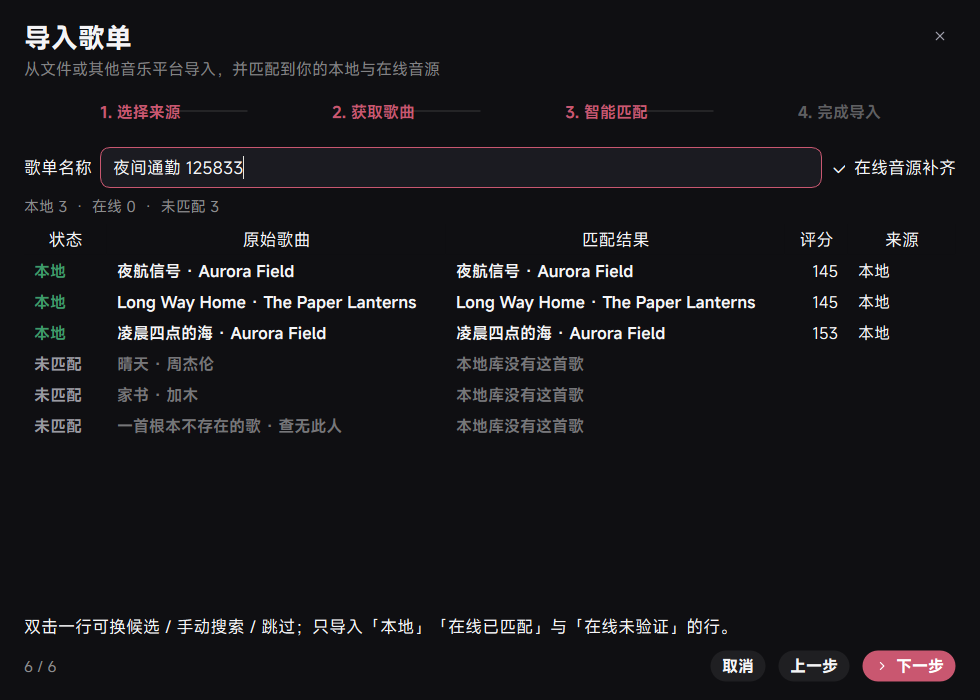
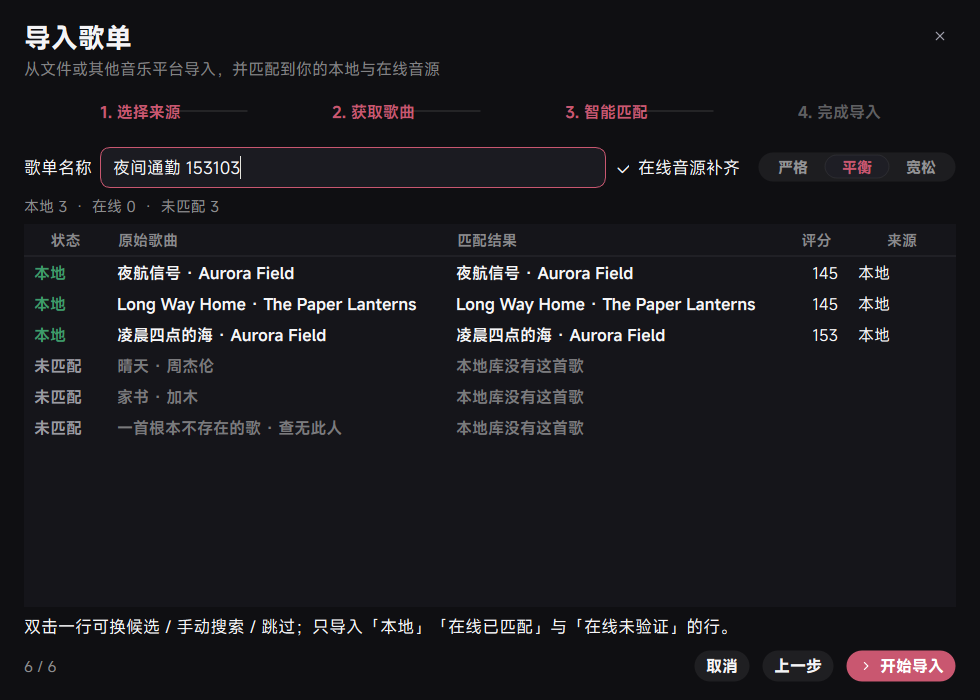
feat(1.2.6): 全黑主题与四选一选择器；导入匹配表去外框并修正自绘表头配色

diff --git a/hushplayer/ui/widgets/settings_widgets.py b/hushplayer/ui/widgets/settings_widgets.py
@@ -694,7 +694,12 @@ class ThemePicker(QWidget):
 
     changed = Signal(str)
 
-    OPTIONS = [("system", "跟随系统", "随 Windows 设置"), ("light", "浅色", "始终浅色"), ("dark", "深色", "始终深色")]
+    OPTIONS = [
+        ("system", "跟随系统", "随 Windows 设置"),
+        ("light", "浅色", "始终浅色"),
+        ("dark", "深色", "始终深色"),
+        ("pure", "全黑", "纯黑背景"),
+    ]
     TILE_W = 132
     GAP = 12
 
@@ -710,25 +715,31 @@ class ThemePicker(QWidget):
         # type overlaps the preview (it used to be a fixed 108 px block).
         label_metrics = QFontMetrics(theme().font(9.4, 600))
         hint_metrics = QFontMetrics(theme().font(7.8, 400))
-        self._label_h = label_metrics.height()
-        self._hint_h = hint_metrics.height()
+        self._label_h = label_metrics.height() + 2
+        self._hint_h = hint_metrics.height() + 2
         self._preview_h = theme().scaled(78, factor=0.6)
         self._label_gap = 4
         self._hint_gap = 2
         self.TILE_H = (
-            self._preview_h + self._label_gap + self._label_h + self._hint_gap + self._hint_h
+            self._preview_h
+            + self._label_gap
+            + self._label_h
+            + self._hint_gap
+            + self._hint_h
+            + theme().scaled(6, factor=0.6)
         )
         self.TILE_W = theme().scaled(type(self).TILE_W, factor=0.6)
         self.GAP = theme().scaled(12, factor=0.6)
         self._tile_w = float(self.TILE_W)
         # Do not reserve the full three-tile width: in a narrow settings column
         # that forced a horizontal scrollbar. The tiles shrink instead.
-        self.setMinimumWidth(int(3 * self.TILE_W * 0.62))
+        self.setMinimumWidth(int(len(self.OPTIONS) * self.TILE_W * 0.46))
         self.setFixedHeight(self.TILE_H)
 
     def _fit_tiles(self) -> None:
-        available = max(1.0, self.width() - 2 * self.GAP)
-        self._tile_w = max(88.0, min(float(self.TILE_W), available / 3.0))
+        count = max(1, len(self.OPTIONS))
+        available = max(1.0, self.width() - (count - 1) * self.GAP)
+        self._tile_w = max(70.0, min(float(self.TILE_W), available / count))
         self.update()
 
     def resizeEvent(self, event) -> None:  # noqa: N802
@@ -736,16 +747,20 @@ class ThemePicker(QWidget):
         self._fit_tiles()
 
     def sizeHint(self) -> QSize:  # noqa: N802
-        return QSize(3 * self.TILE_W + 2 * self.GAP, self.TILE_H)
+        return QSize(len(self.OPTIONS) * self.TILE_W + (len(self.OPTIONS) - 1) * self.GAP, self.TILE_H)
 
     # ------------------------------------------------------------------ API
+    def set_value(self, value: str) -> None:
+        keys = [option[0] for option in self.OPTIONS]
+        if value not in keys:
+            value = "system"
+        if value == self._value:
+            return
+        self._value = value
+        self.update()
+
     def value(self) -> str:
         return self._value
-
-    def set_value(self, value: str) -> None:
-        if value != self._value:
-            self._value = value
-            self.update()
 
     # ------------------------------------------------------------------ 交互
     def _tiles(self) -> list[QRectF]:
@@ -822,7 +837,7 @@ class ThemePicker(QWidget):
                     qcolor("#16161B"),
                 )
             else:
-                painter.fillRect(clip, qcolor("#F5F5F8" if key == "light" else "#16161B"))
+                painter.fillRect(clip, qcolor("#F5F5F8" if key == "light" else ("#000000" if key == "pure" else "#16161B")))
             self._paint_mock(painter, clip, light=key == "light", accent=accent)
             painter.restore()
 
@@ -864,7 +879,7 @@ class ThemePicker(QWidget):
             painter.setPen(QPen(rgba(palette.text, 0.42)))
             text = hint
             if key == "system":
-                resolved = "深色" if theme().mode == "dark" else "浅色"
+                resolved = {"dark": "深色", "pure": "全黑"}.get(theme().mode, "浅色")
                 text = f"当前 {resolved}"
             painter.drawText(
                 QRectF(

diff --git a/hushplayer/core/theme.py b/hushplayer/core/theme.py
@@ -118,7 +118,7 @@ class Palette:
 
     @property
     def is_dark(self) -> bool:
-        return self.mode == "dark"
+        return self.mode in {"dark", "pure"}
 
     def get(self, name: str) -> str:
         return getattr(self, name)
@@ -181,6 +181,38 @@ LIGHT = Palette(
     player="#FAFAFC",
     row_alt="#00000003",
 )
+
+
+PURE = Palette(
+    mode="pure",
+    window="#000000",
+    sidebar="#000000",
+    surface="#0A0A0B",
+    surface_alt="#121214",
+    surface_hover="#1B1B1E",
+    elevated="#101012",
+    border="#1E1E22",
+    border_strong="#2C2C31",
+    text="#F5F5F7",
+    text_secondary="#9C9CA8",
+    text_tertiary="#666670",
+    accent="#C95770",
+    accent_hover="#D96C82",
+    accent_pressed="#AF4460",
+    accent_soft="#1E1014",
+    accent_text="#FFFFFF",
+    hover="#FFFFFF0D",
+    selection="#C9577026",
+    scrim="#000000B8",
+    shadow="#000000AA",
+    danger="#E06060",
+    success="#4FBF8B",
+    warning="#E0A33E",
+    player="#050506",
+    row_alt="#FFFFFF04",
+)
+
+_PALETTES = {"dark": DARK, "light": LIGHT, "pure": PURE}
 
 
 @dataclass(frozen=True)
@@ -299,7 +331,7 @@ class Theme(QObject):
         changed = False
         if mode is not None and mode != self._mode:
             self._mode = mode
-            base = DARK if mode == "dark" else LIGHT
+            base = _PALETTES.get(mode, DARK)
             self._palette = base
             changed = True
         if accent and accent.lower() != self._accent.lower():
@@ -621,7 +653,7 @@ def theme() -> Theme:
 
 
 def resolve_mode(preference: str) -> str:
-    if preference in {"light", "dark"}:
+    if preference in _PALETTES:
         return preference
     try:
         from PySide6.QtWidgets import QApplication

diff --git a/tools/probe_r81_theme.py b/tools/probe_r81_theme.py
@@ -1,0 +1,50 @@
+import os, sys, faulthandler
+sys.path.insert(0, ".")
+faulthandler.enable()
+os.environ["HUSHPLAYER_DATA_DIR"] = os.path.abspath("artifacts/qa/r81/data")
+os.environ["HUSH_CONSOLE"] = "0"
+os.environ["HUSHPLAYER_NO_CLOSE_PROMPT"] = "1"
+os.environ["HUSHPLAYER_MUTEX_SUFFIX"] = "r81"
+from PySide6.QtCore import QTimer
+from PySide6.QtWidgets import QApplication
+from hushplayer.app import HushApp
+from hushplayer.ui.context import ctx
+from hushplayer.ui.pages.settings import SECTIONS
+
+app = QApplication(sys.argv)
+app.setStyle("Fusion")
+hush = HushApp(app)
+hush.start()
+win = ctx().window
+win.resize(1280, 820)
+win.navigate("settings")
+page = win._pages["settings"]
+keys = [s[0] for s in SECTIONS]
+
+def pump(n=40):
+    for _ in range(n):
+        app.processEvents()
+
+def shot(name):
+    pump()
+    win.grab().save(f"artifacts/qa/r81/{name}.png")
+    print("saved", name, flush=True)
+
+def run():
+    page._show_section(keys.index("appearance"))
+    shot("settings_dark")
+    settings = ctx().settings
+    settings.set("appearance.theme_animation_mode", "off")
+    settings.set("appearance.theme", "pure")
+    pump(60)
+    shot("settings_pure")
+    win.navigate("home")
+    shot("home_pure")
+    win.navigate("songs")
+    shot("songs_pure")
+    print("done", flush=True)
+    hush.shutdown(); app.quit()
+
+QTimer.singleShot(1500, run)
+QTimer.singleShot(30000, lambda: (hush.shutdown(), app.quit()))
+app.exec()

diff --git a/tests/test_theme.py b/tests/test_theme.py
@@ -48,3 +48,28 @@ def test_ui_scale_enlarges_type_without_changing_dpr(qapp) -> None:
     for size in (8.0, 9.0, 10.5, 13.0):
         assert theme().pt(size) * 96.0 / 72.0 == pytest.approx(theme().px(size), abs=0.51)
     assert theme().px(9) > 9
+
+
+def test_pure_theme_is_black_and_counts_as_dark(qapp):
+    from hushplayer.core.theme import resolve_mode, theme
+
+    assert resolve_mode("pure") == "pure"
+    theme().apply(mode="pure")
+    palette = theme().palette
+    assert palette.mode == "pure"
+    assert palette.window.lower() == "#000000"
+    assert palette.sidebar.lower() == "#000000"
+    assert palette.is_dark is True
+    theme().apply(mode="dark")
+
+
+def test_theme_picker_offers_pure_and_syncs(qapp):
+    from hushplayer.ui.widgets.settings_widgets import ThemePicker
+
+    picker = ThemePicker("system")
+    keys = [option[0] for option in picker.OPTIONS]
+    assert keys == ["system", "light", "dark", "pure"]
+    picker.set_value("pure")
+    assert picker.value() == "pure"
+    picker.set_value("not-a-mode")
+    assert picker.value() == "system"

diff --git a/hushplayer/ui/pages/settings.py b/hushplayer/ui/pages/settings.py
@@ -391,7 +391,7 @@ class SettingsPage(Page):
 
     # ------------------------------------------------------------- appearance
     def _build_appearance(self, column: QVBoxLayout) -> None:
-        card = SettingsCard("主题", "选择浅色、深色，或跟随 Windows 系统设置")
+        card = SettingsCard("主题", "跟随 Windows、固定浅色/深色，或纯黑背景")
         picker = ThemePicker(str(self.settings.get("appearance.theme", "system")))
         def change_theme(value: str) -> None:
             self.settings.set("appearance.theme", value)
@@ -1404,6 +1404,11 @@ class SettingsPage(Page):
 
     def _refresh_tree(self, root) -> None:
         for child in root.findChildren(QWidget):
+            if isinstance(child, ThemePicker):
+                try:
+                    child.set_value(str(self.settings.get("appearance.theme", "system")))
+                except Exception:  # noqa: BLE001
+                    pass
             refresh = getattr(child, "refresh_theme", None)
             if callable(refresh):
                 try:

diff --git a/hushplayer/app.py b/hushplayer/app.py
@@ -17,7 +17,7 @@ from .core import brand
 from .core import paths
 from .core.paths import data_dir, ensure_dirs, is_frozen
 from .core.settings import settings
-from .core.theme import apply_theme_to_app, theme
+from .core.theme import apply_theme_to_app, resolve_mode, theme
 from .version import APP_NAME, APP_ID, VERSION
 from .ui.context import AppContext, ctx, set_context
 
@@ -245,6 +245,7 @@ class HushApp(QObject):
         overlay = None
         snapshot = None
         previous_mode = self._resolved_mode
+        target_mode = resolve_mode(preference)
         if (
             animate
             and animate_theme
@@ -262,7 +263,7 @@ class HushApp(QObject):
 
                 host = getattr(window, "container", None) or window
                 origin = self._theme_origin(window, host)
-                to_dark = previous_mode == "light"
+                to_dark = target_mode in {"dark", "pure"}
                 if animation_mode == "sunrise":
                     overlay = SunMoonReveal(
                         host,

diff --git a/tests/test_playlist_dialog.py b/tests/test_playlist_dialog.py
@@ -208,7 +208,7 @@ def test_setting_helper_survives_missing_context():
 
 
 def test_match_table_is_wrapped_in_themed_card(inline_context):
-    """匹配表外框用自绘卡片（圆角 + 边框），表头与表格同属该卡片。"""
+    """匹配表容器只做底色，不再画外框（用户要求去掉外框）。"""
     from hushplayer.ui.playlist_import_dialog import PlaylistImportDialog
 
     dialog = PlaylistImportDialog()
@@ -219,6 +219,7 @@ def test_match_table_is_wrapped_in_themed_card(inline_context):
         assert dialog.table.parent() is frame
         style = frame.styleSheet()
         assert "ImportTableFrame" in style
-        assert "border-radius" in style
+        assert "border: none" in style
+        assert "border-radius" not in style
     finally:
         dialog.deleteLater()

diff --git a/hushplayer/ui/playlist_import_dialog.py b/hushplayer/ui/playlist_import_dialog.py
@@ -482,8 +482,7 @@ class PlaylistImportDialog(QDialog):
         self.table.setStyleSheet("QTableView { background: transparent; border: none; }")
         self.table_frame.setStyleSheet(
             f"QFrame#ImportTableFrame {{ background: {palette.surface};"
-            f" border: 1px solid {css_rgba(palette.text, 0.10)};"
-            f" border-radius: {theme().scaled(12, factor=0.6)}px; }}"
+            f" border: none; }}"
         )
         self._table_frame_inset = theme().scaled(1, factor=0.6)
         apply_native_title_bar(self)

diff --git a/hushplayer/ui/main_window.py b/hushplayer/ui/main_window.py
@@ -646,7 +646,7 @@ class MainWindow(FramelessWindow):
 
     def toggle_theme_mode(self) -> None:
         """Switch between light and dark from the title bar (sun / moon)."""
-        target = "light" if theme().mode == "dark" else "dark"
+        target = "light" if theme().is_dark else "dark"
         settings = ctx().settings
         settings.set("appearance.theme", target)
         toast = getattr(self, "_toasts", None)

diff --git a/hushplayer/ui/widgets/titlebar.py b/hushplayer/ui/widgets/titlebar.py
@@ -116,7 +116,7 @@ class TitleBar(QWidget):
 
     def set_theme_mode(self, mode: str) -> None:
         """Show a moon in dark mode and a sun in light mode."""
-        dark = mode == "dark"
+        dark = mode in {"dark", "pure"}
         self.theme_button.set_icon("moon" if dark else "sun")
         self.theme_button.setToolTip("切换到浅色模式" if dark else "切换到深色模式")
 

diff --git a/hushplayer/version.py b/hushplayer/version.py
@@ -4,7 +4,7 @@ from __future__ import annotations
 
 APP_NAME = "HushPlayer"
 APP_ID = "com.hushplayer.desktop"
-VERSION = "1.2.5"
+VERSION = "1.2.6"
 BUILD_CHANNEL = "stable"
 VERSION_TUPLE = tuple(int(part) for part in VERSION.split("."))
 

diff --git a/CHANGELOG.md b/CHANGELOG.md
@@ -2,6 +2,24 @@
 
 本日志依据仓库中的 Git 提交、`hushplayer/version.py` 与构建产物整理。版本按发布时间从新到旧排列；同一版本的多条提交合并为一条，只写对使用者可见的变化。版本号 1.0.14 未单独发布，相关改动并入 1.0.15。
 
+## 1.2.6 - 2026-10-23
+
+### 更新摘要
+
+- 新增「全黑」主题：窗口与侧栏为纯 `#000000`，卡片用近黑 `#0A0A0B`；全黑计入深色语义（标题栏显示月亮、切主题按钮从全黑切到浅色、日月动画按「变暗」方向播放）。主题选择器扩为四项：跟随系统 / 浅色 / 深色 / 全黑，瓦片按可用宽度自适应缩小。
+- 导入歌单的匹配表改为完全自绘表头（不再使用 `QHeaderView`），修复浅色模式下表头是一条黑色横条、深色下表头文字几乎不可见的问题；自绘取色统一走 `theme().rgba()`（`QColor("rgba(...)")` 是无效写法，会退化成纯黑）。
+- 按反馈去掉匹配表外框：容器只保留面板底色，不再画描边与圆角。
+- 设置页主题说明更新为「跟随 Windows、固定浅色/深色，或纯黑背景」。
+
+### 验证
+
+- `pytest`：249 passed / 0 failed（`artifacts/junit_1_2_6.xml`）。
+- 真实窗口截图：`docs/screenshots/theme_pure_{settings,home,songs}.png`、`import_match_{light,dark}.png`。
+- 打包验收：日志 `启动 HushPlayer 1.2.6`、`window=1280x820`、`instances=1`、`alive_after_close=False`。
+
+### 产物
+
[1 lines of base64/hex data omitted]
 ## 1.2.3 - 2026-10-23
 
 - 提交：由本轮 `fix(1.2.3)`
